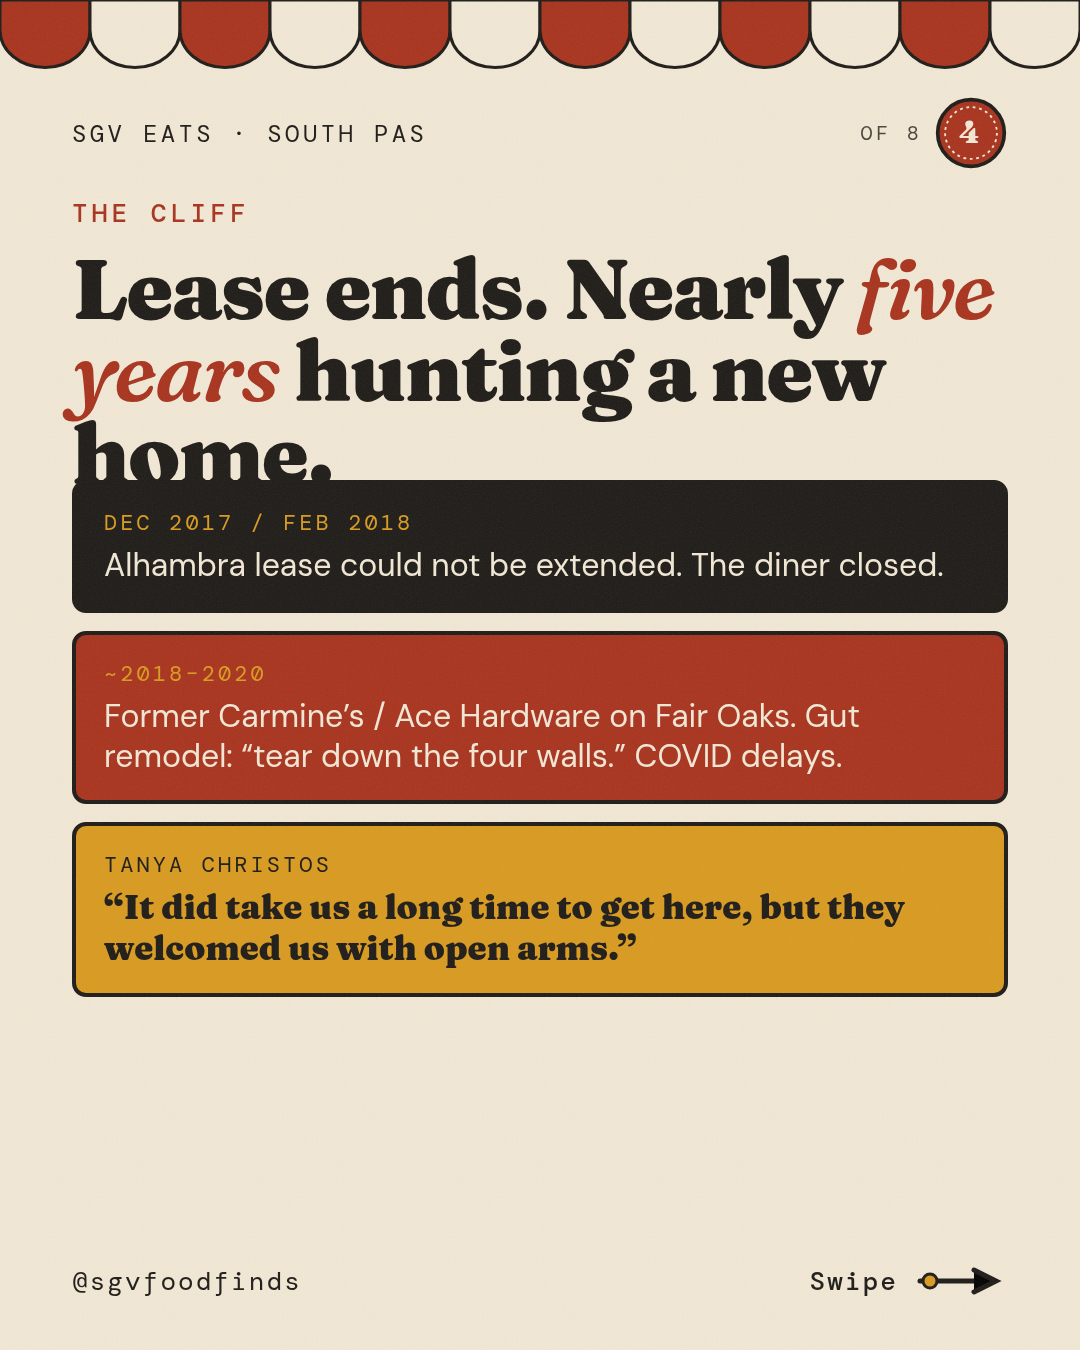
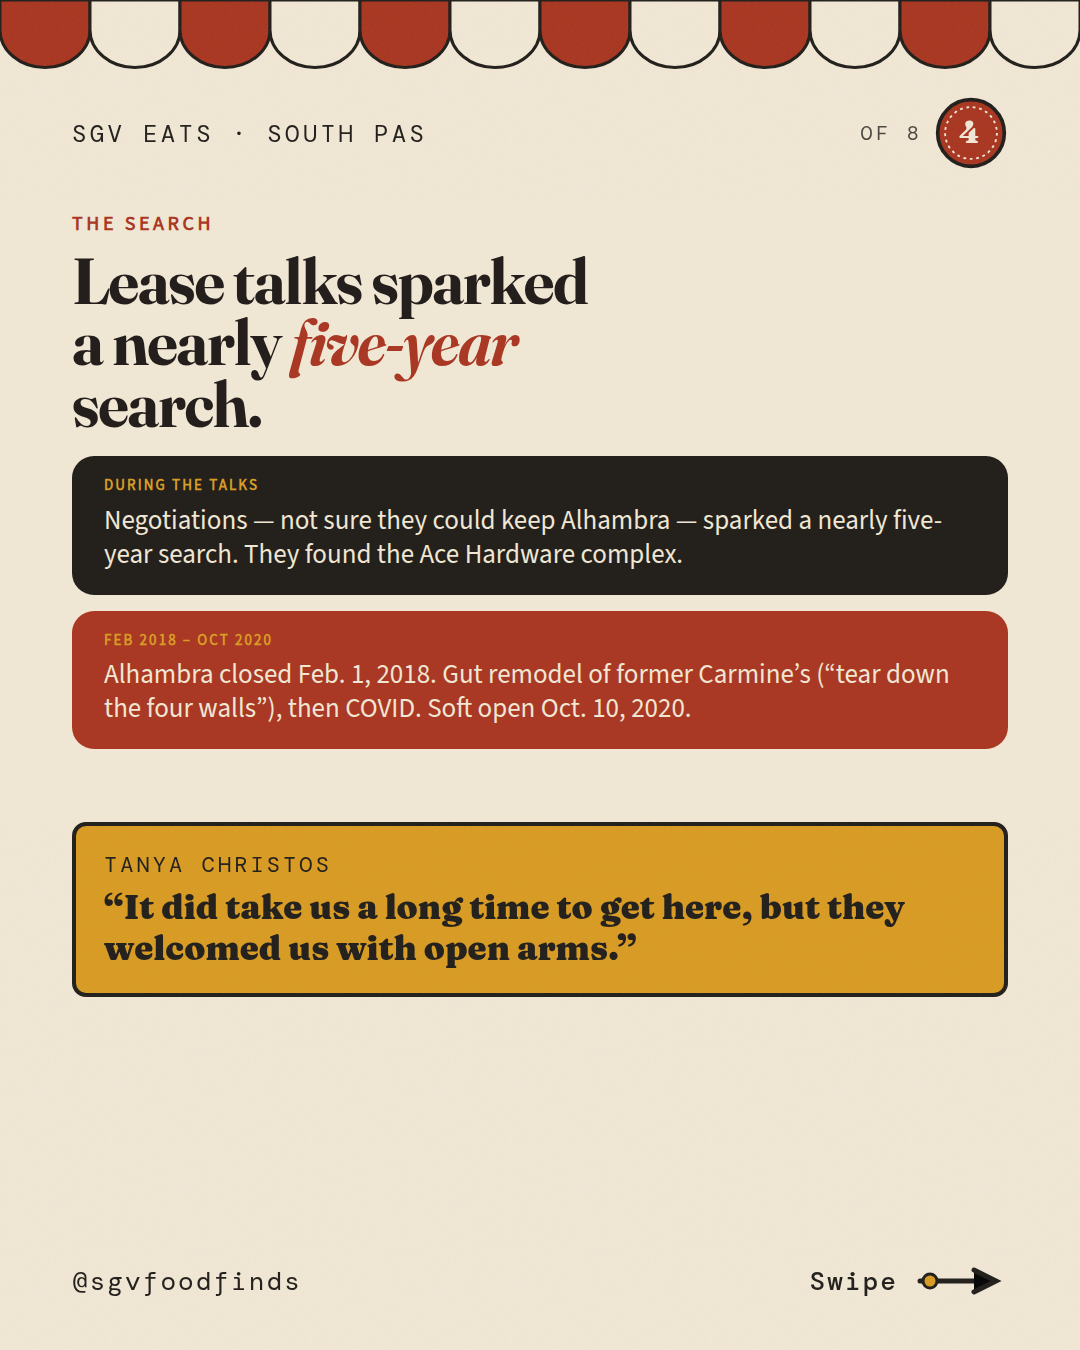
Fix Twohey's slide collisions and the lease-search timeline.
The black date card no longer cuts the slide 4 headline, and that slide now says lease talks sparked the nearly five-year search. The illustration badge on slide 7 sits clear of Mayor Bob Joe's quotation.

Changed region(s): [[0.0611, 0.1556, 0.9472, 0.6222]]

diff --git a/sgv-eats/spotlight/twoheys.html b/sgv-eats/spotlight/twoheys.html
@@ -42,7 +42,7 @@
 <main id="main" class="wrap">
 <p class="issue">Spotlight · South Pasadena · November 7, 2026</p>
 <h1>Twohey’s Restaurant: the diner that named its burger after someone who said “Oh Stink-O”</h1>
-<p class="dek">Since 1943: pickles, onions, buttermilk onion rings, hand-dipped sundaes — and a South Pasadena comeback after the Alhambra lease ended.</p>
+<p class="dek">Since 1943: pickles, onions, buttermilk onion rings, hand-dipped sundaes — and a Fair Oaks comeback after a nearly five-year search.</p>
 <div class="share-row">
 <button type="button" class="share" data-share data-title="Twohey's Restaurant, South Pasadena" data-text="They named the burger after someone who said “Oh Stink-O.” Here’s what to order at Twohey’s on Fair Oaks." data-url="https://samjohnson80.github.io/sgv-eats/spotlight/twoheys.html">Share this</button>
 </div>
@@ -65,13 +65,13 @@
 <p>That naming origin is the hook. The reason to go today is simpler: a family diner that kept roughly 80% of its original menu through a lease loss, a gut remodel, and a COVID delay — and still makes buttermilk-battered onion rings and house bittersweet fountain toppings by hand.<sup><a href="#src-5">5</a></sup><sup><a href="#src-2">2</a></sup></p>
 <h2>Why you should go</h2>
 <p><strong>Order the Original Stinko.</strong> Pickles, onions, old-fashioned bun — the namesake burger. Third-party menu aggregators list it around $16; the restaurant’s official dinner page describes the dish but does not publish prices online, so treat that figure as a guide and confirm on the board.<sup><a href="#src-7">7</a></sup><sup><a href="#src-9">9</a></sup> Pasadena Now’s Weekendr calls the Stinko the classic.<sup><a href="#src-8">8</a></sup> Lifelong regular John Kovak, who told the South Pasadenan he had been coming since age 12, still named “the Stinko burger, with pickles and onions” as his favorite.<sup><a href="#src-5">5</a></sup></p>
-<p><strong>Add the buttermilk onion rings.</strong> They have been a house signature since the early days. Aggregators list a plate around $12; the official dinner menu notes a ring-combo add-on for $4.95.<sup><a href="#src-7">7</a></sup><sup><a href="#src-9">9</a></sup> If you want one more burger, the Everything (Tillamook cheddar and “1001 Island”) is the other press favorite.<sup><a href="#src-8">8</a></sup><sup><a href="#src-9">9</a></sup></p>
+<p><strong>Add the buttermilk onion rings.</strong> They have been a house signature since the early days. Aggregators list a plate around $12; the official dinner menu notes a ring-combo add-on for $4.95.<sup><a href="#src-7">7</a></sup><sup><a href="#src-9">9</a></sup> If you want one more burger, the Everything — Tillamook cheddar, lettuce, tomato, pickles, onions, and “1001 Island” — is the other press favorite.<sup><a href="#src-8">8</a></sup><sup><a href="#src-9">9</a></sup></p>
 <p><strong>Finish at the soda fountain.</strong> Twohey’s Signature Sundae uses house bittersweet, milk chocolate, and caramel toppings the retail shoppe also sells — small and large sizes list around $13–16 on aggregators.<sup><a href="#src-7">7</a></sup><sup><a href="#src-2">2</a></sup> This is hand-dipped fountain work, not a button-push shake machine.</p>
 <p><strong>Go Saturday through Monday or Wednesday through Sunday — never Tuesday.</strong> The official hours grid and the South Pasadenan’s 80th-anniversary write-up agree: closed Tuesdays; Monday/Wednesday/Thursday 9–9; Friday 9–10; Saturday 8–10; Sunday 8–9.<sup><a href="#src-6">6</a></sup><sup><a href="#src-2">2</a></sup> Breakfast runs until 3 PM on open days.<sup><a href="#src-2">2</a></sup> Expect a vintage-inspired lunch counter and soda fountain, a full bar, outdoor patios, and roughly 199 seats (patio about 90, private room about 25).<sup><a href="#src-2">2</a></sup><sup><a href="#src-1">1</a></sup></p>
-<p><strong>What makes it different.</strong> It is not a chain. One family business since 1943, and only a second ownership group — Tanya Christos, Jim Christos, and Greg Mallis — since 1997.<sup><a href="#src-5">5</a></sup><sup><a href="#src-1">1</a></sup> After the Alhambra lease ended, they spent nearly five years finding and gutting a new home so the Stinko could stay in the San Gabriel Valley.<sup><a href="#src-5">5</a></sup><sup><a href="#src-4">4</a></sup></p>
+<p><strong>What makes it different.</strong> It is not a chain. One family business since 1943, and only a second ownership group — Tanya Christos, Jim Christos, and Greg Mallis — since 1997.<sup><a href="#src-5">5</a></sup><sup><a href="#src-1">1</a></sup> Lease negotiations in Alhambra, when they were not sure an arrangement would hold, sparked a nearly five-year search that kept the Stinko in the San Gabriel Valley.<sup><a href="#src-5">5</a></sup></p>
 <h2>From Arroyo to Fair Oaks</h2>
 <p>Jack and Jean opened in 1943 with 37 seats on Arroyo Parkway (some sources say Arroyo Boulevard — same corridor) in Pasadena.<sup><a href="#src-1">1</a></sup><sup><a href="#src-2">2</a></sup> In the 1950s the diner relocated to Huntington Drive and Atlantic Boulevard in Alhambra and became a classic carhop — drive-up service that lasted into the mid-1970s; a 1977 renovation ended the carhop era.<sup><a href="#src-1">1</a></sup><sup><a href="#src-2">2</a></sup><sup><a href="#src-3">3</a></sup> Sources disagree on the exact Alhambra move year: the official Our Story page says 1955; Wikipedia says 1951; a 2017 Los Angeles Times piece phrased it as “10 years later” after 1943 (about 1953); the South Pasadenan simply says “in the 1950s.” Prefer the decade unless you are quoting the restaurant’s own date.<sup><a href="#src-1">1</a></sup><sup><a href="#src-3">3</a></sup><sup><a href="#src-4">4</a></sup><sup><a href="#src-2">2</a></sup></p>
-<p>In 1997 the Twohey family sold to the Christos/Mallis group — described as the only second-hand owners.<sup><a href="#src-5">5</a></sup><sup><a href="#src-4">4</a></sup> In late 2017 the Alhambra lease could not be extended; the location closed around February 1, 2018.<sup><a href="#src-4">4</a></sup> The owners took the former Carmine’s / Ace Hardware complex space at 424 Fair Oaks, tore the interior down to the four walls, and waited through COVID delays. Soft open: October 10, 2020. Chamber ribbon cutting: mid-November 2020.<sup><a href="#src-5">5</a></sup><sup><a href="#src-2">2</a></sup><sup><a href="#src-3">3</a></sup></p>
+<p>In 1997 the Twohey family sold to the Christos/Mallis group — described as the only second-hand owners.<sup><a href="#src-5">5</a></sup><sup><a href="#src-4">4</a></sup> Christos told the South Pasadenan the long hunt started in the lease talks: “we were in negotiations with the landlords and we weren’t sure if we were going to be able to work out an arrangement with them.” The search found the former Carmine’s space in the Ace Hardware complex at 424 Fair Oaks.<sup><a href="#src-5">5</a></sup> The Alhambra diner closed around February 1, 2018, after late-2017 news that the lease could not be extended.<sup><a href="#src-4">4</a></sup><sup><a href="#src-5">5</a></sup> A late October 2018 opening was announced, then kept slipping: the building was in worse shape than expected — they “basically had to tear down the four walls” — and COVID added further delay.<sup><a href="#src-5">5</a></sup> Soft open: October 10, 2020. Chamber ribbon cutting: November 18, 2020.<sup><a href="#src-5">5</a></sup><sup><a href="#src-2">2</a></sup><sup><a href="#src-3">3</a></sup></p>
 <blockquote><p>“We’re very grateful and blessed… It did take us a long time to get here, but they welcomed us with open arms.”</p></blockquote>
 <p>That is co-owner Tanya Christos, speaking at the South Pasadena ribbon cutting.<sup><a href="#src-5">5</a></sup> Outgoing Mayor Bob Joe added the civic version: “Twoheys is a tradition… there are people remembering their first day eating there, their anniversaries, birthdays, and proposals.”<sup><a href="#src-5">5</a></sup> In September 2023 the restaurant marked 80 years with a five-day celebration and recognitions from congressional, state, county, and city offices.<sup><a href="#src-2">2</a></sup><sup><a href="#src-3">3</a></sup></p>
 <h2>If you go</h2>
@@ -85,7 +85,7 @@
 <li id="src-2"><a href="https://southpasadenan.com/twoheys-to-celebrate-80th-anniversary-as-a-family-owned-local-landmark/">“TWOHEY’S to Celebrate 80th Anniversary…,” South Pasadenan, Sept. 12, 2023</a>. Oh-Stink-O trademark story; Oct. 10, 2020 open; hours; seating (~199 / patio ~90 / private ~25); fountain toppings; Instagram; 1950s Alhambra phrasing.</li>
 <li id="src-3"><a href="https://en.wikipedia.org/wiki/Twohey%27s">Wikipedia, Twohey’s</a>, read Nov. 7, 2026. Founders; 1951 Alhambra claim (conflicts with official 1955); Oct. 10, 2020 move; 80th honors. Use carefully where dates conflict.</li>
 <li id="src-4"><a href="https://www.latimes.com/food/dailydish/la-fo-re-twoheys-20171230-story.html">Jenn Harris, Los Angeles Times, Dec. 26/30, 2017</a>. Alhambra lease close; Christos/Mallis owners; “10 years later” move phrasing (~1953); Stinko / onion rings / hot fudge reputation.</li>
-<li id="src-5"><a href="https://southpasadenan.com/twoheys-restaurant-opens-in-south-pasadena-ribbon-cutting-welcomes-long-awaited-new-location/">Eric Fabbro, “Twoheys Opens!,” South Pasadenan, Nov. 19, 2020</a>. Ribbon cutting; nearly five-year search; gut remodel; COVID delay; ~80% original menu; Tanya Christos quotes; Mayor Bob Joe quote; John Kovak Stinko quote; address/phone.</li>
+<li id="src-5"><a href="https://southpasadenan.com/twoheys-restaurant-opens-in-south-pasadena-ribbon-cutting-welcomes-long-awaited-new-location/">Eric Fabbro, “Twoheys Opens!,” South Pasadenan, Nov. 19, 2020</a>. Ribbon cutting November 18, 2020; lease negotiations sparked a nearly five-year search that found the Ace Hardware complex; Alhambra close around February 1, 2018; announced late-October 2018 opening; gut remodel; COVID delay; ~80% original menu; Tanya Christos quotes; Mayor Bob Joe quote; John Kovak Stinko quote; address/phone.</li>
 <li id="src-6"><a href="https://www.twoheys.com/">Twohey’s homepage</a>, read Nov. 7, 2026. Live open status; hours grid; address; phone; Instagram link in site chrome.</li>
 <li id="src-7"><a href="https://twoheysrestaurant.restaurants-info.com/menu">Twohey’s Restaurant Menu (restaurants-info aggregator)</a>, read Nov. 7, 2026. Third-party itemized prices (Stinko ~$15.95, rings ~$11.95, Signature Sundae ~$12.95/$15.95). Verify on-site; official pages omit prices.</li>
 <li id="src-8"><a href="https://www.pasadenanow.com/weekendr/cheeseburger-week-toting-history-and-cheeseburgers/">Eddie Rivera, Pasadena Now Weekendr, Jan. 25, 2023</a>. Stinko and Everything burger lineup detail; Tanya greeting; burger review context.</li>

diff --git a/sgv-eats/index.html b/sgv-eats/index.html
@@ -82,7 +82,7 @@
 <div>
 <p class="issue">Today’s feature</p>
 <h2>Twohey’s Restaurant</h2>
-<p>A patron sniffed a pickle-and-onion burger in 1943 and said “Oh Stink-O,” so Jack Twohey trademarked the name; after the Alhambra lease ended, the diner came back on Fair Oaks.</p>
+<p>A patron sniffed a pickle-and-onion burger in 1943 and said “Oh Stink-O,” so Jack Twohey trademarked the name; lease talks sparked a nearly five-year search, and the diner later opened on Fair Oaks.</p>
 <a class="go" href="/sgv-eats/spotlight/twoheys.html">Read the spotlight</a>
 </div>
 </article>
